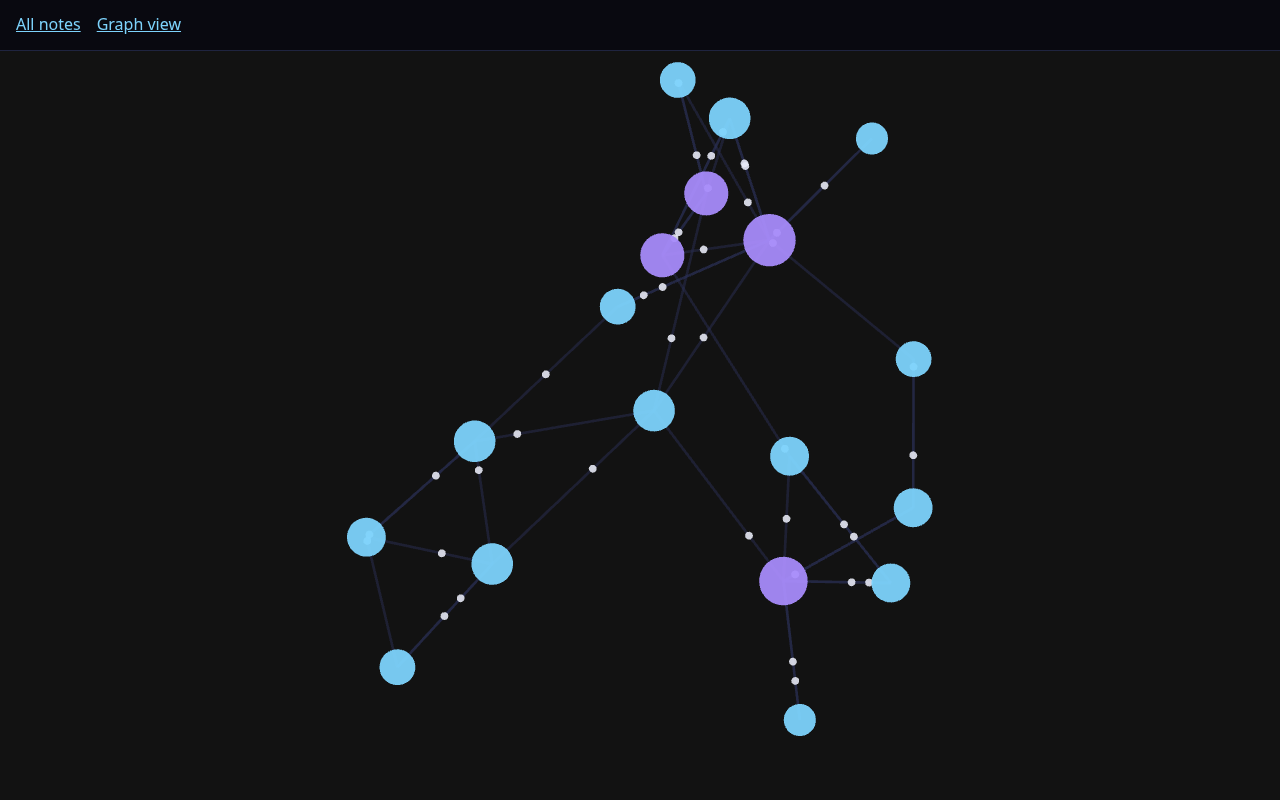
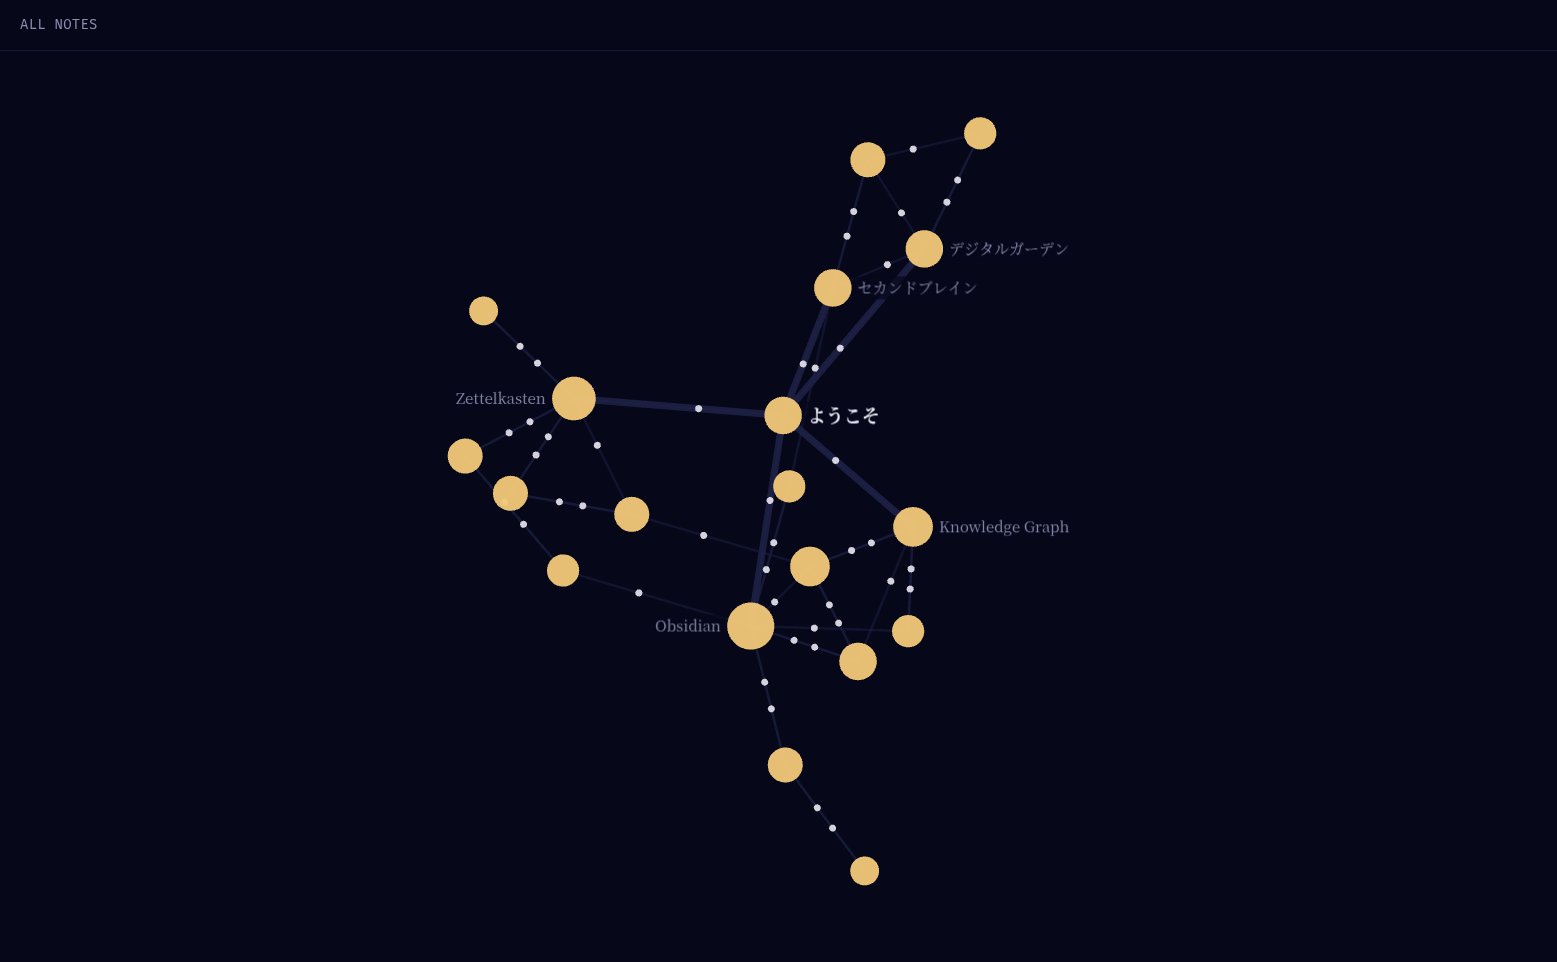
chore(release): v0.2.0 に向けて CHANGELOG・バージョン・デモ画像を更新
- CHANGELOG.md の [0.2.0] エントリに、後続セッションで実施した以下を追記
  - highlight.js による build 時シンタックスハイライト
  - markdown 記法ショーケースノート（fixtures/demo-vault）
  - Graph UI のタッチ操作分離・エネルギー粒子同期の修正
  - ダークテーマの視認性改善（コントラスト・コードブロック・引用・テーブル等）
  - サプライチェーンセキュリティ強化（Actions の SHA 固定、Dependabot、
    npm audit signatures/--audit-level=high、engines.node）
- package.json のバージョンを 0.1.0 -> 0.2.0 に更新
- README のデモスクリーンショットを、graph.html で「ようこそ」ノードに
  hover した状態のものに更新

diff --git a/CHANGELOG.md b/CHANGELOG.md
@@ -32,6 +32,29 @@ v0.1 の golden path の上に、Graph UI・性能測定・レスポンシブス
   `actions/upload-pages-artifact` / `actions/deploy-pages` のみを用いて GitHub Pages へ
   自動公開するパイプラインを追加。エンドユーザーが自分の vault を同様に公開できる、独立した
   再利用可能な workflow テンプレートを README に追加（REQ-OPS-002〜003, ADR-0013）。
+- **build 時シンタックスハイライト**: markdown コードブロックを highlight.js による静的（ビルド時）
+  ハイライトに対応。クライアント JS の追加なしで言語別の配色を実現し、REQ-UX-004（portable static
+  artifact）・REQ-BUILD-001（決定的 build）を維持したまま、sanitize allowlist（REQ-SEC-003）を
+  `.hljs` 系クラスに拡張。
+- **markdown 記法ショーケースノート**: `fixtures/demo-vault` に、対応済みの Markdown/OFM 記法
+  （箇条書き・強調・打ち消し線・インラインコード・コードブロック・引用・テーブル・画像埋め込み等、
+  REQ-CONTENT-001〜005）を一望できるデモノートを追加。
+- **Graph UI の細部改善**: タッチ操作でのノードプレビュー（1 回目のタップでハイライトのみ、2 回目の
+  タップでノートページへ遷移）とマウスホバーの動作を分離し、モバイルで指がラベルを隠して確認できない
+  問題を解消。全ノードのエネルギー粒子放出タイミングを単一の共有サイクルタイマーへ統一し、edge ごとに
+  バラバラだった発光アニメーションを同期（REQ-UX-010）。
+- **ダークテーマの視認性改善**: 記事本文のコントラスト調整、コードブロック/インラインコード・引用・
+  テーブル・見出しレベルのスタイリングを他要素と統一し、判別しにくかった箇所を改善（REQ-UX-009）。
+
+### サプライチェーンセキュリティ強化
+
+- `ci.yml` / `deploy-demo.yml` の GitHub Actions 参照をすべて可変タグ（`@v4` 等）からコミット SHA
+  固定に変更し、上流タグの付け替えによる CI 改ざんリスクを低減。
+- `ci.yml` に `permissions: contents: read` を明示（最小権限化）し、`npm audit signatures` /
+  `npm audit --audit-level=high` の CI ステップを追加。
+- `.github/dependabot.yml` を新設し、npm / github-actions の週次更新 PR を有効化（SHA 固定により
+  止まるバージョン追従を補う）。
+- `package.json` に `engines.node >= 22` を追加し、CI の Node バージョンと明示的に対応させた。
 
 ### 参照 ADR
 
